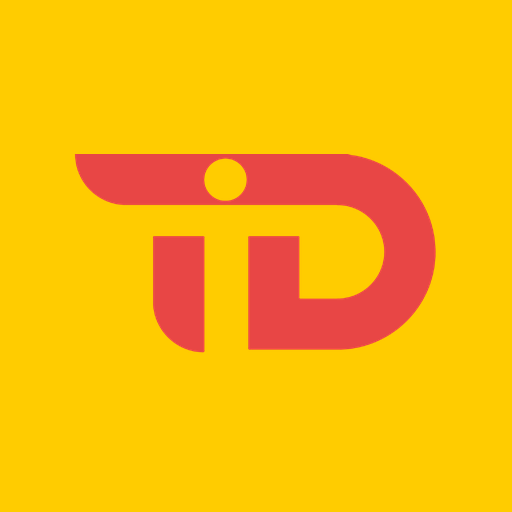
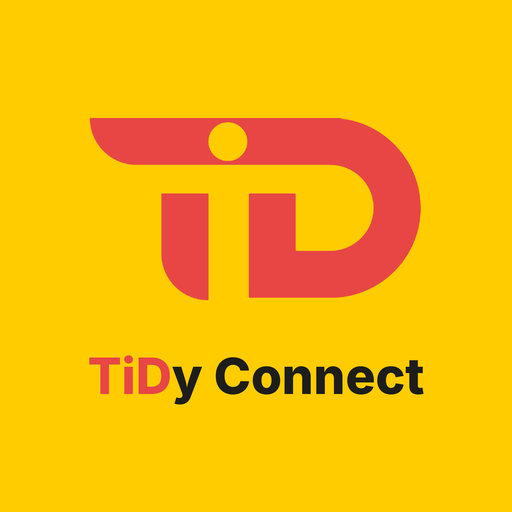
Ikona: naziv TiDy Connect ispod loga
Claude-Session: https://claude.ai/code/session_0148VnaY3P7q93cdyw7eh3xj

Changed region(s): [[0.125, 0.2188, 0.875, 0.8125]]

diff --git a/README.md b/README.md
@@ -34,7 +34,7 @@ Lozinke putuju mrežom, zato koristite HTTPS: IIS s *URL Rewrite + ARR* kao reve
 Svi podaci su u jednoj datoteci: `data\db.json`. Kopirajte je redovito (npr. Task Scheduler jednom dnevno).
 
 ## 6. Novosti u izvještajima
-- **Ikona s logom** (26.10.2026.): kvadratne ikone iz loga na žutoj podlozi (`public/icon-192.png`, `icon-512.png`, `icon-maskable-512.png`, `apple-touch-icon.png`, `favicon.png`) i `manifest.webmanifest` (naziv TiDy Connect). Na mobitelu treba obrisati stari prečac i ponovno dodati aplikaciju na početni zaslon.
+- **Ikona s logom** (26.10.2026.): kvadratne ikone iz loga na žutoj podlozi s natpisom TiDy Connect ispod loga (`public/icon-192.png`, `icon-512.png`, `icon-maskable-512.png`, `apple-touch-icon.png`, `favicon.png`) i `manifest.webmanifest` (naziv TiDy Connect). Na mobitelu treba obrisati stari prečac i ponovno dodati aplikaciju na početni zaslon.
 - **Novi naziv: TiDy Connect** (26.10.2026.): u zaglavlju, na prijavi, u kartici preglednika, kao ime ikone na mobitelu, u e-mailovima (ime pošiljatelja, naslovi) i u PDF izvještajima. Grupa EVIDENCIJA RADNOG VREMENA zadržava ime.
 - **Upute po stranicama** (26.10.2026.): plavi gumb **?** dolje desno sada je na svakoj stranici radnika (Početna, Otpremnice, Alat, Evidencija, Šihterica, Godišnji, Slobodni dan, Izvještaji, Poruke i zahtjevi) i otvara upute samo za tu stranicu. Gumb **Sve upute** prikazuje cijele upute, a kućica vraća na stranicu s koje su upute otvorene.
 - **Obavijesti administratoru o aktivnostima radnika** (25.10.2026.): gumb sa zvonom u zaglavlju administratora otvara popis radnji radnika (prijava, unosi, izmjene i brisanja, zahtjevi, završen mjesec, otpremnice, odgovori, pročitane poruke, promjena lozinke) s detaljima, najnovije na vrhu. Gumb **Uključi obavijesti u Windowsima** dopušta pregledniku skočne obavijesti: svaka nova radnja prikaže se kao obavijest u Windowsima (do 4 pojedinačno, više njih zajedno u jednoj). Radi dok je aplikacija otvorena u pregledniku (smije biti u pozadini ili smanjena) i samo preko https adrese (Cloudflare) ili http://localhost:3000 na serveru, ne preko http://IP-adrese u mreži. Popis se drži samo u memoriji servera (zadnjih 300, briše se ponovnim pokretanjem). Obavijesti o prijavama mogu se isključiti.
